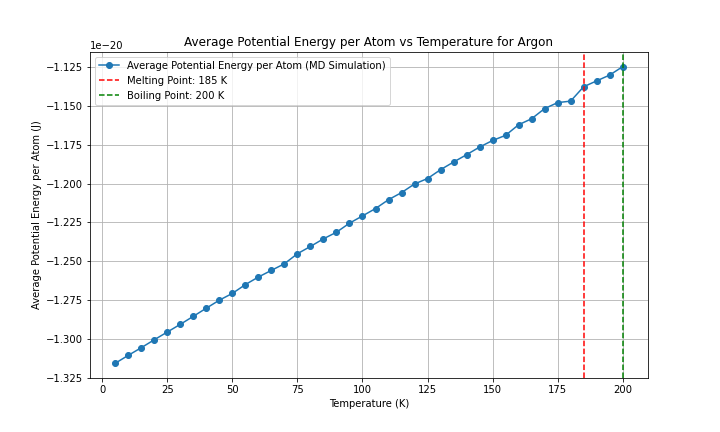
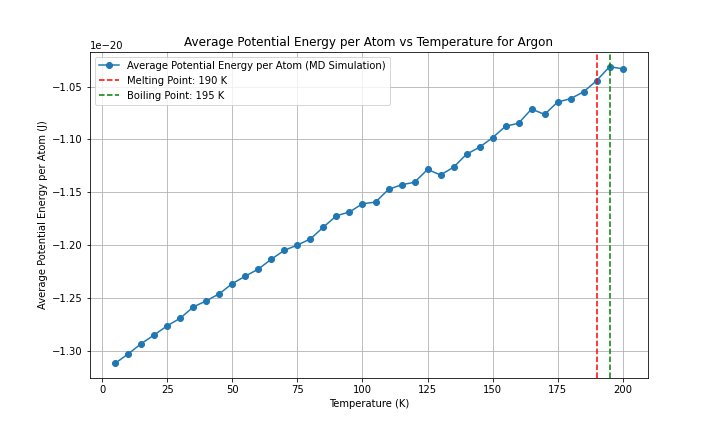
MAINDEBUG(debugMain3.py)

diff --git a/Debuggig/DebugMain3.py b/Debuggig/DebugMain3.py
@@ -30,12 +30,11 @@ def create_fcc_lattice(a, n):
 
 @njit
 def lennard_jones(r2):
-    
-    r2 = np.float64(r2)
+    """Calculate the Lennard-Jones potential and force."""
     r6 = (SIGMA ** 2 / r2) ** 3
     r12 = r6 ** 2
-    potential = np.float64(4 * EPSILON * (r12 - r6))
-    force = np.float64(24 * EPSILON * (2 * r12 - r6) / r2)
+    potential = 4 * EPSILON * (r12 - r6)
+    force = 24 * EPSILON * (2 * r12 - r6) / r2
     return potential, force
 
 @njit
@@ -83,27 +82,10 @@ def velocity_verlet_adaptive(positions,
     max_force = np.max(custom_norm(new_forces, axis=1))
     
     if max_force > max_force_threshold:
-        dt = max(0.9 * dt * (max_force_threshold / max_force)**0.5, 1e-17)
+        dt = max(0.9 * dt * (max_force_threshold / max_force)**0.5, 1e-16)
     
     new_velocities = velocities + 0.5 * (forces + new_forces) * dt / MASS
     return new_positions, new_velocities, new_forces, dt
-
-@njit
-def beeman_adaptive(positions, velocities, forces, previous_forces, dt, box_length, max_force_threshold=5e-11):
-    """Beeman's integration with adaptive time step."""
-    new_positions = positions + velocities * dt + (2/3) * forces * dt**2 / MASS - (1/6) * previous_forces * dt**2 / MASS
-    new_positions = apply_pbc(new_positions, box_length)
-    new_forces, _ = compute_forces(new_positions, box_length)
-    max_force = np.max(custom_norm(new_forces, axis=1))
-    
-    if max_force > max_force_threshold:
-        dt = max(0.9 * dt * (max_force_threshold / max_force)**0.5, 1e-17)
-    
-    new_velocities = velocities + (1/3) * new_forces * dt / MASS + (5/6) * forces * dt / MASS - (1/6) * previous_forces * dt / MASS
-   
-    return new_positions, new_velocities, new_forces, dt
-
-
 
 @njit
 def standard_verlet_adaptive(positions,
@@ -115,7 +97,7 @@ def standard_verlet_adaptive(positions,
     max_force = np.max(custom_norm(new_forces, axis=1))
 
     if max_force > max_force_threshold:
-        dt = max(0.9 * dt * (max_force_threshold / max_force)**0.5, 1e-17)
+        dt = max(0.9 * dt * (max_force_threshold / max_force)**0.5, 1e-16)
 
     new_velocities = velocities + new_forces * dt / MASS
     return new_positions, new_velocities, new_forces, dt
@@ -132,7 +114,7 @@ def leapfrog_verlet_adaptive(positions,
     max_force = np.max(custom_norm(new_forces, axis=1))
 
     if max_force > max_force_threshold:
-        dt = max(0.9 * dt * (max_force_threshold / max_force)**0.5, 1e-17)
+        dt = max(0.9 * dt * (max_force_threshold / max_force)**0.5, 1e-16)
 
     new_velocities = velocities_half + new_forces * half_dt / MASS
     return new_positions, new_velocities, new_forces, dt
@@ -140,7 +122,7 @@ def leapfrog_verlet_adaptive(positions,
 def adaptive_equilibration(positions, velocities,
                            forces, dt, box_length,
                            verlet_algorithm,
-                           equilibration_window=1000, threshold=1e-23):
+                           equilibration_window=500, threshold=1e-22):
     """Perform adaptive equilibration."""
     equilibration_steps = 0
     recent_potential_energies = []
@@ -166,20 +148,22 @@ def adaptive_equilibration(positions, velocities,
 def run_md_for_temperature(T, seed, verlet_algorithm, dt, sampling_steps=60000):
     """Run MD simulation for a single temperature using the specified Verlet algorithm."""
     np.random.seed(seed)
-    a = 5.26e-10  
-    n = 3  
+    a = 5.26e-10  # Initial guess for the lattice parameter
+    n = 3  # Number of unit cells in each dimension
     positions = create_fcc_lattice(a, n)
-    box_length = n * a  
+    box_length = n * a  # Length of the simulation box
     N = len(positions)
     
+    # Initialize velocities for 5K
     velocities = np.random.randn(N, 3) * np.sqrt(K_B * 5 / MASS)
     forces, _ = compute_forces(positions, box_length)
-    previous_forces = forces.copy()  
 
+    # Rescale velocities to the desired temperature
     current_temperature = np.sum(MASS * np.sum(velocities**2, axis=1)) / (3 * N * K_B)
     scale_factor = np.sqrt(T / current_temperature)
     velocities *= scale_factor
 
+    # Adaptive equilibration
     positions, velocities, forces, dt, equilibration_steps = adaptive_equilibration(
         positions, velocities, forces, dt, box_length, verlet_algorithm
     )
@@ -197,17 +181,9 @@ def run_md_for_temperature(T, seed, verlet_algorithm, dt, sampling_steps=60000):
         initial_total_energy = None
     
         for step in range(sampling_steps):
-            if verlet_algorithm == beeman_adaptive:
-                positions, velocities, new_forces, dt = verlet_algorithm(
-                    positions, velocities, forces, previous_forces, dt, box_length
-                )
-                previous_forces = forces.copy()
-                forces = new_forces
-            else:
-                positions, velocities, forces, dt = verlet_algorithm(
-                    positions, velocities, forces, dt, box_length
-                )
-
+            positions, velocities, forces, dt = verlet_algorithm(
+                positions, velocities, forces, dt, box_length
+            )
             kinetic_energy = 0.5 * MASS * np.sum(velocities**2)
             _, potential_energy_step = compute_forces(positions, box_length)
             total_energy = kinetic_energy + potential_energy_step
@@ -225,7 +201,6 @@ def run_md_for_temperature(T, seed, verlet_algorithm, dt, sampling_steps=60000):
     
     return dt, average_potential_energy, energy_drift
 
-
 def potential_energy_for_lattice(a):
     """Calculate potential energy for a given lattice parameter."""
     positions = create_fcc_lattice(a, 3)
@@ -235,7 +210,7 @@ def potential_energy_for_lattice(a):
 
 def optimize_lattice_parameter():
     """Optimize the lattice parameter."""
-    initial_guesses = np.linspace(5e-10, 6e-10, 500)
+    initial_guesses = np.linspace(5e-10, 6e-10, 300)
     results = [minimize(potential_energy_for_lattice,
                         [guess], bounds=[(5e-10, 6e-10)]) for
                guess in initial_guesses]
@@ -325,50 +300,33 @@ def generate_pdf_report(filename,
         label=f'Boiling Point: {boiling_point} K')
     plt.legend()
     plt.grid(True)
-   # plt.savefig(plot_filename)
+    plt.savefig(plot_filename)
     plt.close()
 
     c.drawImage(plot_filename, 50, 200, width=500, height=300)
     c.save()
 
 
-
 def main():
     """Main function to run the MD simulation."""
-    start_time = time.time()  
+    start_time = time.time()  # Start time measurement
 
     a_opt = optimize_lattice_parameter()
     print(f"Optimized lattice parameter: {a_opt}")
 
-   
     temperatures = np.arange(5, 205, 5)
-    
-    
-    preliminary_temperatures = np.arange(90, 100, 5)  
-    
-    time_steps = [
-        1e-14
-                  # , 1e-15,5e-16, 5e-15
-                  ]
+    time_steps = [1e-14]
  
     seeds = np.random.randint(0, 10000, len(temperatures))
-    preliminary_seeds = np.random.randint(0, 10000, len(preliminary_temperatures))
 
-    verlet_algorithms = [
-        # velocity_verlet_adaptive,
-        #      standard_verlet_adaptive, leapfrog_verlet_adaptive,
-             beeman_adaptive]
-    algorithm_names = [
-        # "Velocity-Verlet (Adaptive)",
-        #                "Standard Verlet (Adaptive)", 
-        #                "Leapfrog Verlet (Adaptive)",
-                       "Beeman (Adaptive)"]
+    verlet_algorithms = [velocity_verlet_adaptive, standard_verlet_adaptive, leapfrog_verlet_adaptive]
+    algorithm_names = ["Velocity-Verlet (Adaptive)",
+                       "Standard Verlet (Adaptive)", "Leapfrog Verlet (Adaptive)"]
 
-    preliminary_steps = 10
+    preliminary_steps = 100
     potential_energies_per_algorithm, energy_drifts_per_algorithm, best_time_steps = run_preliminary_steps_parallel(
-        preliminary_temperatures,
-        preliminary_seeds,  
-        verlet_algorithms,
+        temperatures[:3],
+        seeds[:3], verlet_algorithms,
         algorithm_names, time_steps, preliminary_steps)
 
     best_algorithm_index = np.argmin([pe + ed for pe,
@@ -383,7 +341,7 @@ def main():
     print(f"Best Verlet algorithm: {best_algorithm_name}")
     print(f"Best time step: {best_time_step}")
 
-    sampling_step_range = [100]
+    sampling_step_range = [20]
     sampling_results = find_best_sampling_steps(temperatures[0],
                 seeds[0], best_verlet_algorithm, best_time_step, sampling_step_range)
 
@@ -401,7 +359,7 @@ def main():
     
     dts, potential_energies, energy_drifts = zip(*results)
     
-    end_time = time.time()  
+    end_time = time.time()  # End time measurement
     runtime = end_time - start_time
     print(f"Runtime: {runtime:.2f} seconds")
     
@@ -433,7 +391,7 @@ def main():
     plt.legend()
     plt.show()
     
-    generate_pdf_report("MD_Simulation_Report5(Beemans check).pdf",
+    generate_pdf_report("MD_Simulation_Report5(debugMAIN).pdf",
     melting_point, boiling_point, a_opt,
     temperatures, potential_energies, 
     runtime, best_algorithm_name, best_time_step, reason)
@@ -441,4 +399,3 @@ def main():
 
 if __name__ == "__main__":
     main()
-
